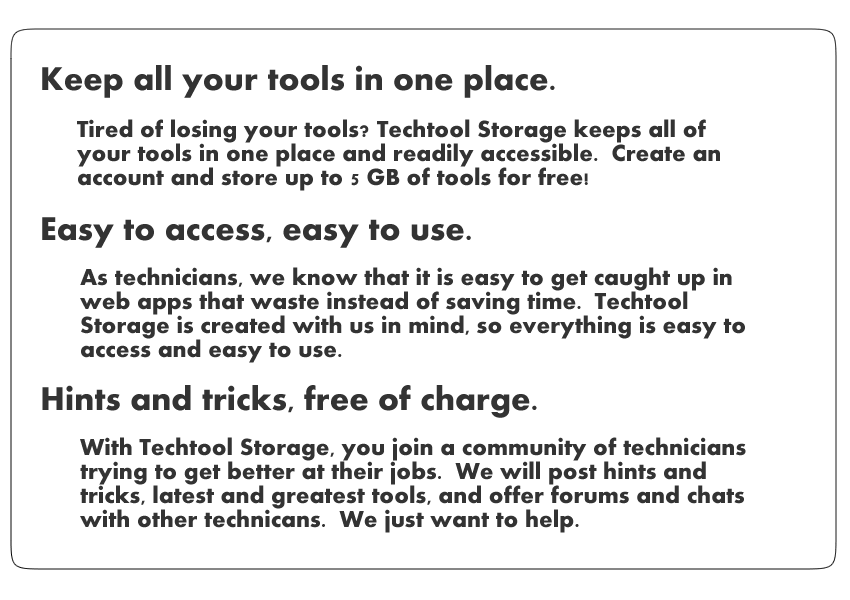
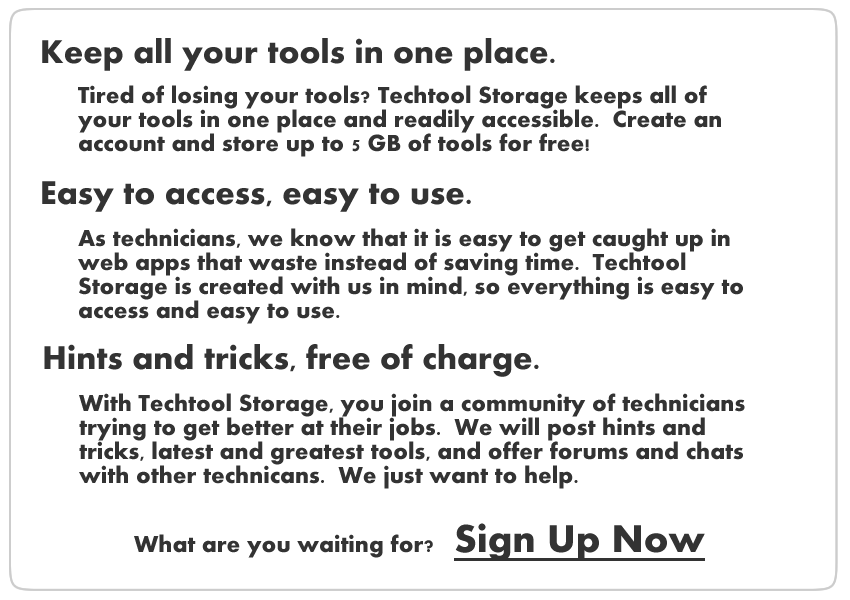
Tweaked home page

Changed region(s): [[0.0, 0.0, 1.0, 0.99]]

diff --git a/app/assets/stylesheets/application.css b/app/assets/stylesheets/application.css
@@ -15,7 +15,6 @@ body {
 	font-family: Arial, Verdana, sans-serif;
 }
 
-/*Home Page Styling */
 .container {
 	background-image: url("background.png");
 	background-repeat: no-repeat;
@@ -24,6 +23,8 @@ body {
 	margin-left: auto;
 	margin-right: auto;
 }
+
+/* Header Styling */
 
 .header {
 	padding-top: 30px;
@@ -40,8 +41,10 @@ body {
 	display: block;
 }
 
+/* Home Page Styling */
+
 .intro {
-	padding-top: 110px;
+	padding-top: 115px;
 	padding-left: 75px;
 	width: 830px;
 	height: 545px;
